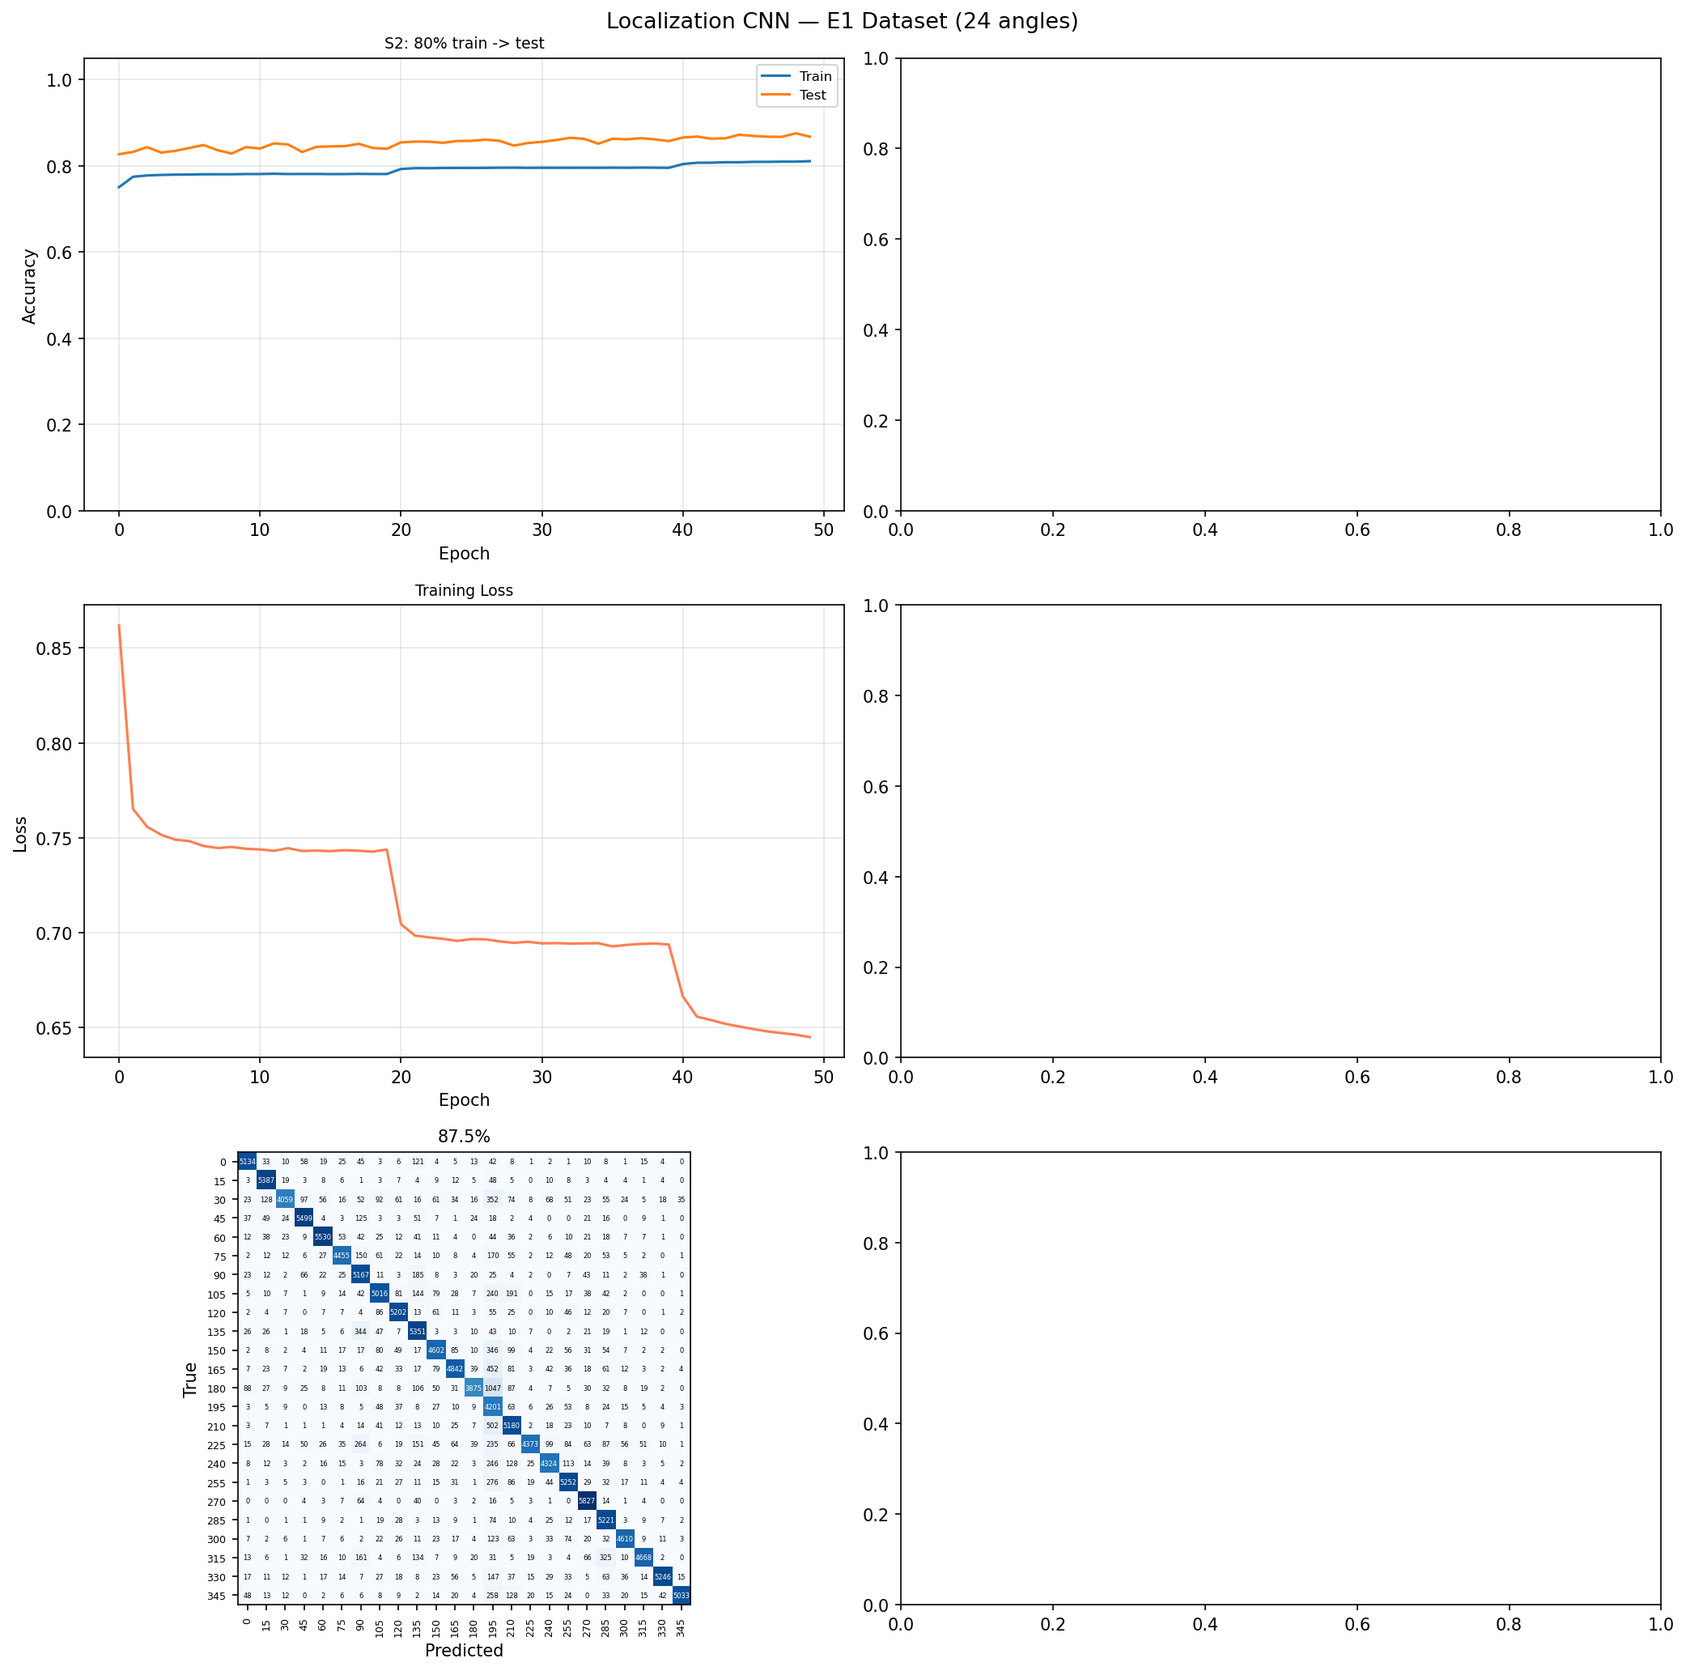
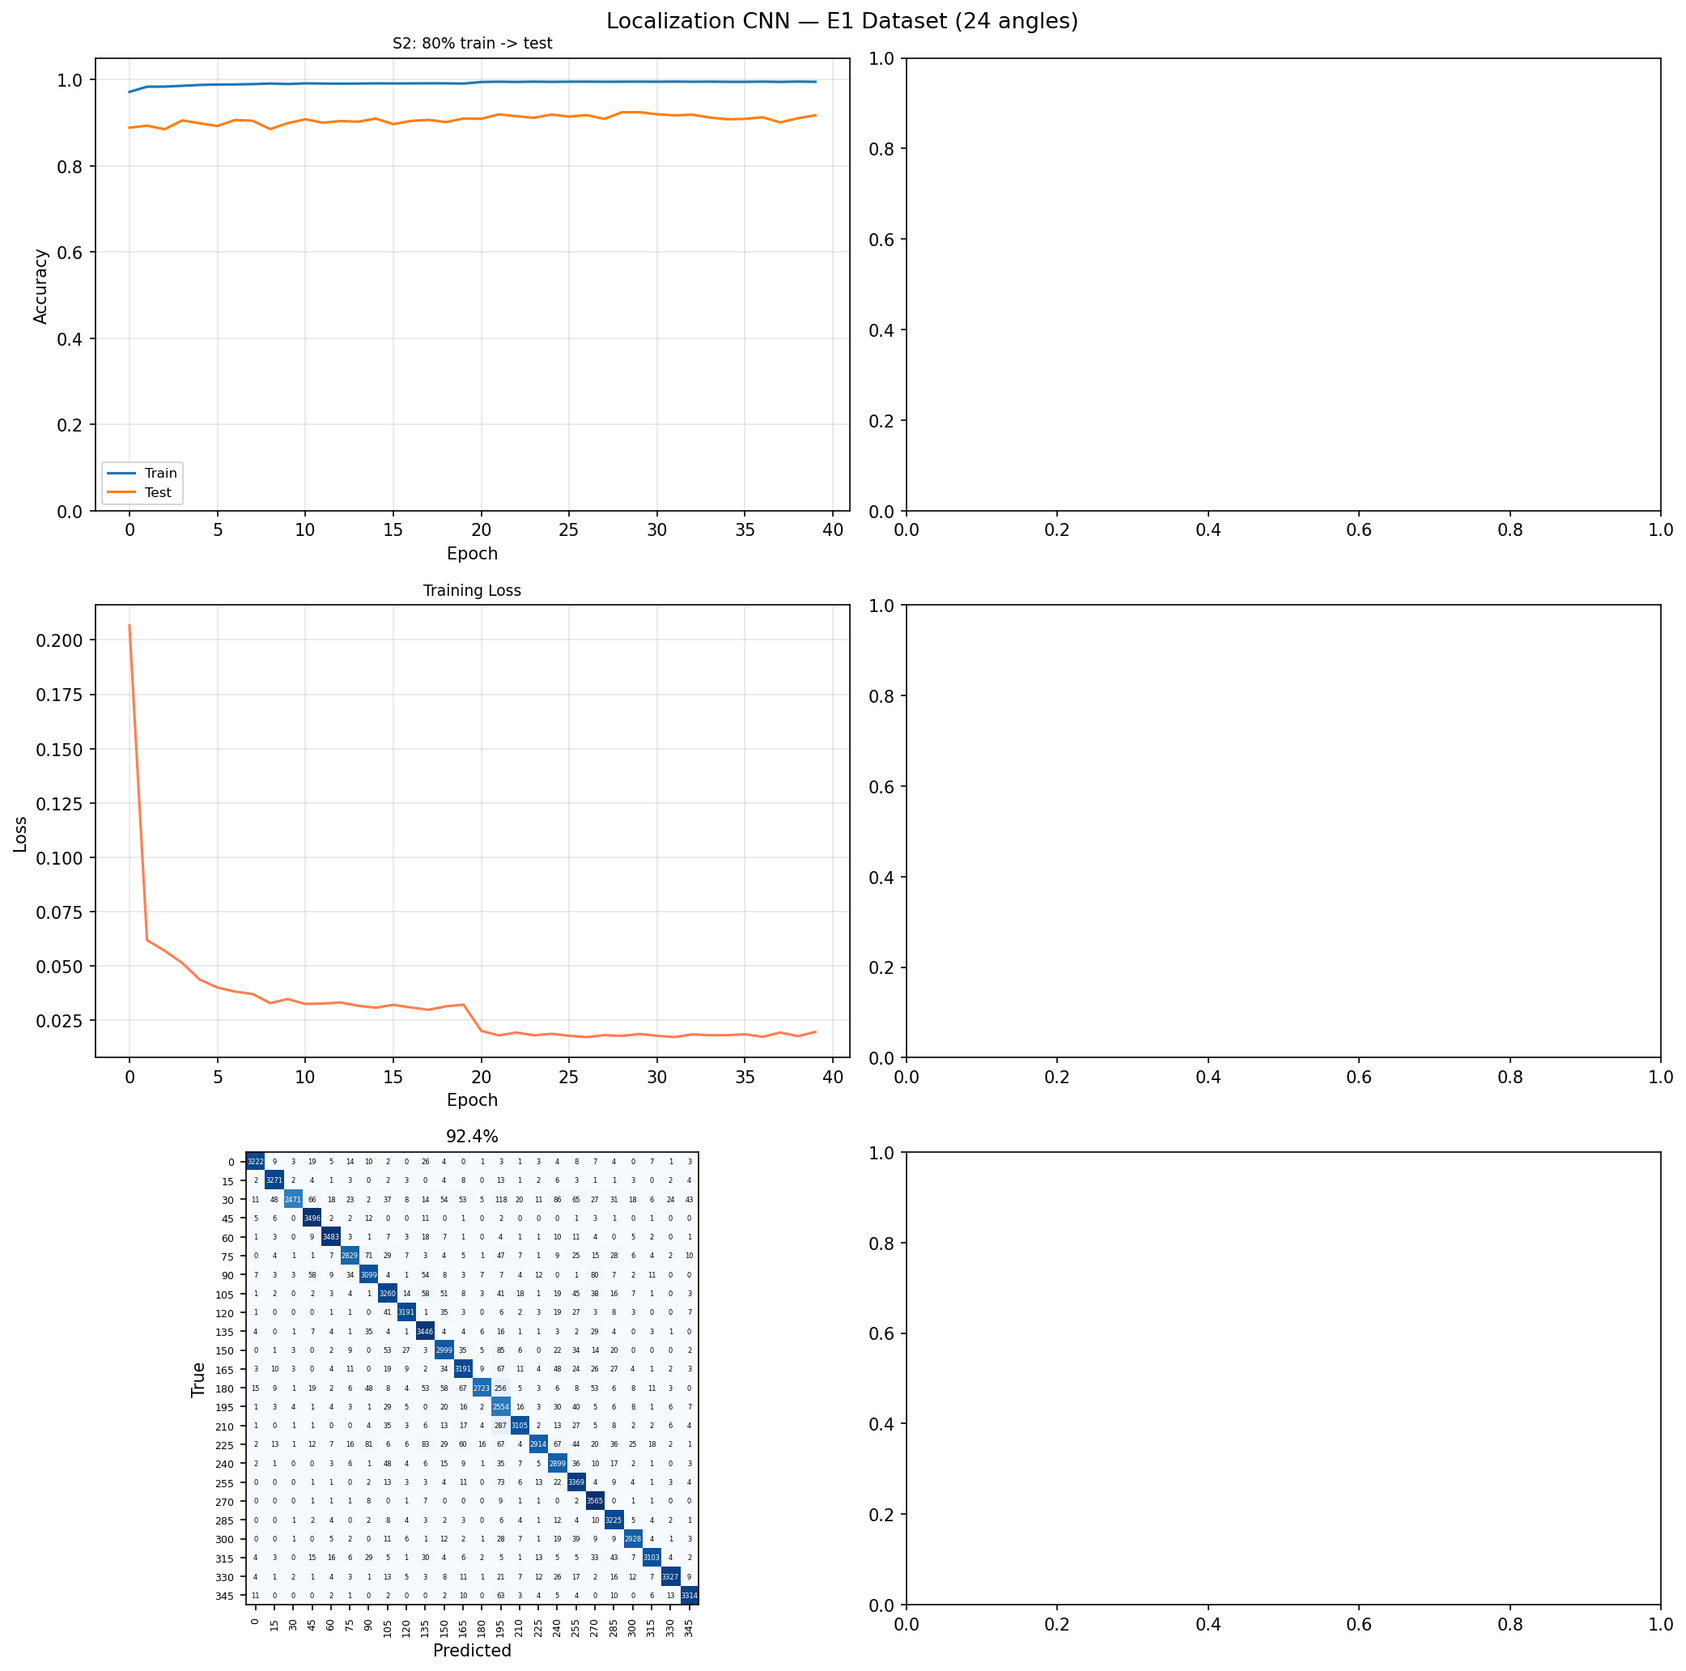
switch inference to ALL-features model (895-D)
- replace GCC-TDOA inference with full 895-D ALL-features pipeline
- add IPD, IPD-mel, log-mel extractors to _features.py
- add scipy dependency to pyproject.toml
- fix README: folder names, feature total 899→895, pipeline steps

diff --git a/3_inference/_features.py b/3_inference/_features.py
@@ -1,12 +1,55 @@
 import numpy as np
 import wave
+from scipy.signal import hilbert
 
 RATE          = 16000
-CHUNK_SEC     = 0.03
+CHUNK_SEC     = 0.05
 CHUNK_SAMPLES = int(CHUNK_SEC * RATE)   # 480 samples per 30ms chunk
 GCC_VEC_SIZE  = 100
 N_PAIRS       = 6
+N_MELS        = 40
+N_FFT         = 1024
 MICS          = ['mic_right', 'mic_front', 'mic_left', 'mic_back']
+
+# ── Mel filterbank (built once) ────────────────────────────────────────────────
+def _build_mel_filterbank():
+    def hz_to_mel(f): return 2595 * np.log10(1 + f / 700)
+    def mel_to_hz(m): return 700 * (10 ** (m / 2595) - 1)
+    mel_pts = np.linspace(hz_to_mel(0), hz_to_mel(RATE / 2), N_MELS + 2)
+    hz_pts  = mel_to_hz(mel_pts)
+    bins    = np.floor((N_FFT + 1) * hz_pts / RATE).astype(int)
+    fb = np.zeros((N_MELS, N_FFT // 2 + 1))
+    for m in range(1, N_MELS + 1):
+        l, c, r = bins[m - 1], bins[m], bins[m + 1]
+        fb[m - 1, l:c] = (np.arange(l, c) - l) / (c - l + 1e-10)
+        fb[m - 1, c:r] = (r - np.arange(c, r)) / (r - c + 1e-10)
+    return fb
+
+MEL_FB = _build_mel_filterbank()
+
+
+def _get_ipd(sig1, sig2):
+    """Broadband IPD via Hilbert transform → scalar (degrees)."""
+    a1 = np.angle(np.array(hilbert(sig1), dtype=np.complex128))
+    a2 = np.angle(np.array(hilbert(sig2), dtype=np.complex128))
+    return float(np.mean(np.degrees(np.arctan2(np.sin(a1 - a2), np.cos(a1 - a2)))))
+
+
+def _get_ipd_mel(sig1, sig2):
+    """Energy-weighted IPD per mel band → (N_MELS,)."""
+    X1 = np.fft.rfft(sig1, n=N_FFT)
+    X2 = np.fft.rfft(sig2, n=N_FFT)
+    phase_diff = np.angle(X1 * np.conj(X2))
+    power      = np.abs(X1) * np.abs(X2) + 1e-10
+    weighted   = MEL_FB @ (phase_diff * power)
+    weights    = MEL_FB @ power
+    return (weighted / (weights + 1e-10)).astype(np.float32)
+
+
+def _get_logmel(chunk):
+    """Log-mel energy vector → (N_MELS,)."""
+    power = np.abs(np.fft.rfft(chunk, n=N_FFT)) ** 2
+    return np.log(MEL_FB @ power + 1e-10).astype(np.float32)
 
 
 def _load_wav(path):
@@ -79,5 +122,67 @@ def extract_chunk_tdoa(ch):
     features = np.concatenate([
         np.array(gcc_tdoa, dtype=np.float32),
         np.concatenate(gcc_vecs),
+    ])
+    return rms, features
+
+
+def extract_chunk_all(ch):
+    """
+    Extract all 895 features matching train_ALL_features.py FEATURE_COLS order.
+
+    Feature order:
+      ipd_pair{0,1,2}                         →   3
+      ipd_mel_{0,1,2}_b{0..39}                → 120
+      gcc_tdoa_{0..5}                          →   6
+      gcc_strength_{0..5}                      →   6
+      gcc_vec_{0..5}_t{0..99}                  → 600
+      logmel_{mic}_b{0..39}  (4 mics)          → 160
+                                          Total: 895
+
+    Parameters
+    ----------
+    ch : dict  { 'mic_right': np.float32[480], 'mic_front': ..., ... }
+
+    Returns
+    -------
+    rms      : np.float32[4]    — one value per mic, used for silence detection
+    features : np.float32[895]
+    """
+    rms = np.array([_rms(ch[m]) for m in MICS], dtype=np.float32)
+
+    # IPD scalar — 3 pairs: (right,front), (right,left), (front,back)
+    ipd_pairs = [
+        _get_ipd(ch['mic_right'], ch['mic_front']),
+        _get_ipd(ch['mic_right'], ch['mic_left']),
+        _get_ipd(ch['mic_front'], ch['mic_back']),
+    ]
+
+    # IPD per mel-band — same 3 pairs × 40 bands
+    ipd_mel = [
+        _get_ipd_mel(ch['mic_right'], ch['mic_front']),
+        _get_ipd_mel(ch['mic_right'], ch['mic_left']),
+        _get_ipd_mel(ch['mic_front'], ch['mic_back']),
+    ]
+
+    # GCC-PHAT — all 6 pairs (i < j from MICS order)
+    gcc_tdoa, gcc_str, gcc_vecs = [], [], []
+    for i in range(4):
+        for j in range(i + 1, 4):
+            tdoa, strength = _get_gcc_phat(ch[MICS[i]], ch[MICS[j]])
+            vec            = _get_gcc_vector(ch[MICS[i]], ch[MICS[j]])
+            gcc_tdoa.append(tdoa)
+            gcc_str.append(strength)
+            gcc_vecs.append(vec)
+
+    # Log-mel energy — 4 mics × 40 bands
+    logmel = [_get_logmel(ch[m]) for m in MICS]
+
+    features = np.concatenate([
+        np.array(ipd_pairs, dtype=np.float32),        #   3
+        np.concatenate(ipd_mel),                       # 120
+        np.array(gcc_tdoa,  dtype=np.float32),         #   6
+        np.array(gcc_str,   dtype=np.float32),         #   6
+        np.concatenate(gcc_vecs),                      # 600
+        np.concatenate(logmel),                        # 160
     ])
     return rms, features

diff --git a/3_inference/__init__.py b/3_inference/__init__.py
@@ -1,6 +1,6 @@
 """
-audioloc — 4-microphone sound localization (GCC-TDOA)
-------------------------------------------------------
+audioloc — 4-microphone sound localization (ALL features)
+----------------------------------------------------------
 Install:
     pip install git+https://github.com/hayooka/audio_Localization_dataset.git
 
@@ -20,12 +20,13 @@ import torch
 import torch.nn as nn
 from urllib.request import urlretrieve
 
-from ._features import _load_wav, extract_chunk_tdoa, CHUNK_SAMPLES, RATE, MICS
+from ._features import _load_wav, extract_chunk_all, CHUNK_SAMPLES, RATE, MICS
 
 # ── Constants ──────────────────────────────────────────────────────────────────
 DEVICE_NAME = "reSpeaker"   # partial name match — same as data collection scripts
-MODEL_URL   = 'https://github.com/hayooka/audio_Localization_dataset/releases/download/v1.00/audioLOC_GCCTDOA.pt'
-MODEL_CACHE = os.path.join(os.path.expanduser('~'), '.audioloc', 'audioLOC_GCCTDOA.pt')
+MODEL_URL   = 'https://github.com/hayooka/audio_Localization_dataset/releases/download/v1.00/audioLOC_ALL.pt'
+MODEL_CACHE = os.path.join(os.path.expanduser('~'), '.audioloc', 'audioLOC_ALL.pt')
+MODEL_LOCAL = os.path.join(os.path.dirname(os.path.abspath(__file__)), '..', '4_training', 'audioLOC.pt')
 
 # ── CNN architecture (must match training) ─────────────────────────────────────
 class _LocalizationCNN(nn.Module):
@@ -53,12 +54,19 @@ _state = {}
 
 def _load():
     device = 'cuda' if torch.cuda.is_available() else 'cpu'
-    if not os.path.exists(MODEL_CACHE):
-        os.makedirs(os.path.dirname(MODEL_CACHE), exist_ok=True)
-        print('Downloading GCC-TDOA model...')
-        urlretrieve(MODEL_URL, MODEL_CACHE)
-        print('Done.')
-    ckpt      = torch.load(MODEL_CACHE, map_location=device, weights_only=False)
+
+    # prefer local trained file, fall back to cached download
+    if os.path.exists(MODEL_LOCAL):
+        ckpt_path = MODEL_LOCAL
+    else:
+        ckpt_path = MODEL_CACHE
+        if not os.path.exists(ckpt_path):
+            os.makedirs(os.path.dirname(ckpt_path), exist_ok=True)
+            print('Downloading ALL-features model...')
+            urlretrieve(MODEL_URL, ckpt_path)
+            print('Done.')
+
+    ckpt      = torch.load(ckpt_path, map_location=device, weights_only=False)
     n_feat    = len(ckpt['feature_cols'])
     n_classes = ckpt['model_state']['fc.9.bias'].shape[0]
     model     = _LocalizationCNN(n_feat, n_classes).to(device)
@@ -74,7 +82,7 @@ def _load():
 
 # ── Inference ──────────────────────────────────────────────────────────────────
 def _infer(X):
-    """X: (N, 606) GCC-TDOA features → (angle_list, pred_indices, confidences)."""
+    """X: all features."""
     X_norm = (X - _state['mean']) / (_state['std'] + 1e-10)
     X_t    = torch.tensor(X_norm).float().unsqueeze(1).to(_state['device'])
     with torch.no_grad():
@@ -118,7 +126,7 @@ def predict(path_right, path_front, path_left, path_back,
     for ci in range(n_chunks):
         s  = ci * CHUNK_SAMPLES
         ch = {m: signals[m][s:s + CHUNK_SAMPLES] for m in MICS}
-        rms, feat = extract_chunk_tdoa(ch)
+        rms, feat = extract_chunk_all(ch)
         rms_list.append(rms)
         feat_list.append(feat)
 
@@ -163,7 +171,7 @@ def predict_realtime(rms_threshold=100.0):
     if not _state:
         _load()
 
-    print("Listening (GCC-TDOA)... Press Ctrl+C to stop.\n")
+    print("Listening (ALL features)... Press Ctrl+C to stop.\n")
     print(f"{'Angle':>8}  {'Confidence':>10}")
     print("-" * 22)
 
@@ -183,7 +191,7 @@ def predict_realtime(rms_threshold=100.0):
                     'mic_back':  block[:, 5],
                 }
 
-                rms, feat = extract_chunk_tdoa(ch)
+                rms, feat = extract_chunk_all(ch)
 
                 if (rms < rms_threshold).any():
                     print(f"{'---':>8}  (silence)")

diff --git a/4_training/train_ALL_features.py b/4_training/train_ALL_features.py
@@ -20,7 +20,7 @@ from data_processing import augment_all, EarlyStopping
 
 # ── Config ────────────────────────────────────────────────────────────────────
 FEATURES_DIR = r'C:\Users\ahmma\Desktop\farah\features'
-CHUNK_TAG    = '30'   # e.g. '30', '50', '80' — matches train_DATA{tag}.csv
+CHUNK_TAG    = '50'   # e.g. '30', '50', '80' — matches train_DATA{tag}.csv
 EPOCHS       = 50
 BATCH_SIZE   = 64
 LR           = 1e-3
@@ -84,11 +84,11 @@ class LocalizationCNN(nn.Module):
 # ── Helpers ───────────────────────────────────────────────────────────────────
 def prepare(X_tr_raw, y_tr_raw, X_te_raw, y_te_raw, X_rms=None):
     ## augment train only: original + noise + gain + time-shift copies
-    X_tr_aug = augment_all(X_tr_raw.astype(np.float32), _LOGMEL_IDX, X_rms)
-    y_tr_aug = np.tile(y_tr_raw, 4).astype(np.int64)
-    print(f'  Augmented train: {len(X_tr_raw)} → {len(X_tr_aug)} samples')
-    #X_tr_aug = X_tr_raw.astype(np.float32)
-    #y_tr_aug = y_tr_raw.astype(np.int64)
+    #X_tr_aug = augment_all(X_tr_raw.astype(np.float32), _LOGMEL_IDX, X_rms)
+    #y_tr_aug = np.tile(y_tr_raw, 4).astype(np.int64)
+    #print(f'  Augmented train: {len(X_tr_raw)} → {len(X_tr_aug)} samples')
+    X_tr_aug = X_tr_raw.astype(np.float32)
+    y_tr_aug = y_tr_raw.astype(np.int64)
 
     scaler = StandardScaler()
     X_tr = scaler.fit_transform(X_tr_aug)

diff --git a/1_data_collection/record_4mic_ReSpeaker.py b/1_data_collection/record_4mic_ReSpeaker.py
@@ -2,7 +2,6 @@ import sounddevice as sd
 import numpy as np
 import wave
 import os
-import webrtcvad
 from gammatone.gtgram import gtgram
 from datetime import datetime
 import time
@@ -90,11 +89,6 @@ vad_log_path  = os.path.join(OUT_DIR, "vad_log.txt")
 vad_log_lines = ["frame_index,vad_active,gammatone_energy"]
 
 # ========================
-# VAD
-# ========================
-vad = webrtcvad.Vad(2)
-
-# ========================
 # COUNTERS
 # ========================
 frame_idx     = 0
@@ -122,26 +116,6 @@ try:
         left_int16  = left.astype(np.int16)
         back_int16  = back.astype(np.int16)
 
-        try:
-            vad_active = vad.is_speech(front_int16.tobytes(), RATE)
-        except Exception:
-            vad_active = False
-
-        if vad_active:
-            speech_frames += 1
-
-        front_norm = front / (np.max(np.abs(front)) + 1e-9)
-        gt = gtgram(front_norm, RATE, DURATION, DURATION, NUM_FILTERS, 50)
-        gammatone_energy = float(np.mean(gt))
-
-        wav_right.writeframes(right_int16.tobytes())
-        wav_front.writeframes(front_int16.tobytes())
-        wav_left.writeframes(left_int16.tobytes())
-        wav_back.writeframes(back_int16.tobytes())
-
-        vad_log_lines.append(f"{frame_idx},{int(vad_active)},{gammatone_energy:.6f}")
-
-        frame_idx += 1
 
         if frame_idx % (30 * 1000 // FRAME_MS) == 0:
             elapsed    = (datetime.now() - start_time).seconds

diff --git a/2_data_to_features/features_to_csv.py b/2_data_to_features/features_to_csv.py
@@ -33,9 +33,9 @@ OUTPUT_DIR = r'C:\Users\ahmma\Desktop\farah\features'
 ANGLES = list(range(0, 360, 15))
 MICS      = ['mic_right', 'mic_front', 'mic_left', 'mic_back']
 RATE      = 16000
-CHUNK_SEC = 0.03  # 80ms = 1280 samples at 16kHz
+CHUNK_SEC = 0.05  # 50ms = 800 samples at 16kHz
 N_MELS    = 40
-N_FFT     = 2048  # next power of 2 >= 1280
+N_FFT     = 1024  # next power of 2 >= 800
 
 
 POSITION_TO_LABEL = {angle: i for i, angle in enumerate(ANGLES)}

diff --git a/README.md b/README.md
@@ -30,7 +30,7 @@ from audioloc import predict_realtime
 predict_realtime(device=25)        # device index from your system
 ```
 
-> First call downloads the pretrained weights (~113 MB) once to `~/.audioloc/`.
+> First call downloads the pretrained ALL-features weights once to `~/.audioloc/`.
 > **Requires:** Python ≥ 3.8, PyTorch, NumPy, SciPy
 
 ---
@@ -39,27 +39,25 @@ predict_realtime(device=25)        # device index from your system
 
 ```
 audio_Localization_dataset/
-├── 1_data_to_features/
+├── 1_data_collection/
+│   ├── record_4mic_ReSpeaker.py  ← 4-mic recorder (6-ch ReSpeaker, ch 2–5)
+│   └── record_2mic_old.py        ← older 2-mic recorder
+├── 2_data_to_features/
 │   ├── features_to_csv.py        ← WAV → features → CSV (30ms chunks)
 │   └── 6_plot.py                 ← feature separability analysis & plots
-├── 2_training/
+├── 3_inference/                  ← installable audioloc package
+│   ├── __init__.py               ← predict() + predict_realtime()
+│   └── _features.py              ← feature extraction from WAV / live audio
+├── 4_training/
 │   ├── data_processing.py        ← augmentation, early stopping
-│   ├── train_ALL_features.py     ← CNN on all features  ← main model
+│   ├── train_ALL_features.py     ← CNN on all 895 features  ← main model
 │   ├── train_IPD.py              ← CNN on IPD only
 │   ├── train_GCC_TDOA.py         ← CNN on GCC-TDOA only
 │   ├── train_GCC_Strength.py     ← CNN on GCC strength only
 │   ├── train_LogMel.py           ← CNN on log-mel only
 │   ├── train_RMS.py              ← CNN on RMS only
-│   └── audioLOC.pt               ← pretrained weights (S2 model)
-├── 3_inference/                  ← installable audioloc package
-│   ├── __init__.py               ← predict() + predict_realtime()
-│   └── _features.py              ← feature extraction from WAV / live audio
-├── 4_data_collection/
-│   ├── record_4mic_ReSpeaker.py  ← 4-mic recorder (6-ch ReSpeaker, ch 2–5)
-│   └── record_2mic_old.py        ← older 2-mic recorder
-├── notebooks/
-│   └── analyze_features.ipynb    ← RMS distribution, silence, separability
-├── Results/                      ← plots & summaries per feature set
+│   └── audioLOC.pt               ← pretrained weights (ALL features, S2)
+├── results/                      ← plots & summaries per feature set
 └── pyproject.toml                ← pip package config
 ```
 
@@ -67,11 +65,10 @@ audio_Localization_dataset/
 
 ## Pipeline
 
-1. **Record** → `4_data_collection/record_4mic_ReSpeaker.py` — 5 min + 3 min WAV per angle
-2. **Extract** → `1_data_to_features/features_to_csv.py` — 30ms chunks → 899 features → CSV
-3. **Analyse** → `notebooks/analyze_features.ipynb` — inspect silence, feature separability
-4. **Train** → `2_training/train_ALL_features.py` — 1D CNN, 24-class, saves `audioLOC.pt`
-5. **Use** → `from audioloc import predict` or `predict_realtime()`
+1. **Record** → `1_data_collection/record_4mic_ReSpeaker.py` — 5 min + 3 min WAV per angle
+2. **Extract** → `2_data_to_features/features_to_csv.py` — 30ms chunks → 895 features → CSV
+3. **Train** → `4_training/train_ALL_features.py` — 1D CNN, 24-class, saves `audioLOC.pt`
+4. **Use** → `from audioloc import predict` or `predict_realtime()`
 
 ---
 
@@ -79,14 +76,13 @@ audio_Localization_dataset/
 
 | Feature | Dims | Description |
 |---|---|---|
-| RMS | 4 | Energy per mic |
 | IPD | 3 | Hilbert phase difference (3 mic pairs) |
 | IPD-mel | 120 | Phase difference weighted over 40 mel bands |
 | GCC-PHAT TDOA | 6 | Cross-correlation peak delay (ms), 6 pairs |
 | GCC Strength | 6 | Correlation peak sharpness, 6 pairs |
 | GCC vector | 600 | Full 100-sample GCC curve, 6 pairs |
 | Log-mel | 160 | 40 mel bands × 4 mics |
-| **Total** | **899** | |
+| **Total** | **895** | |
 
 ---
 
